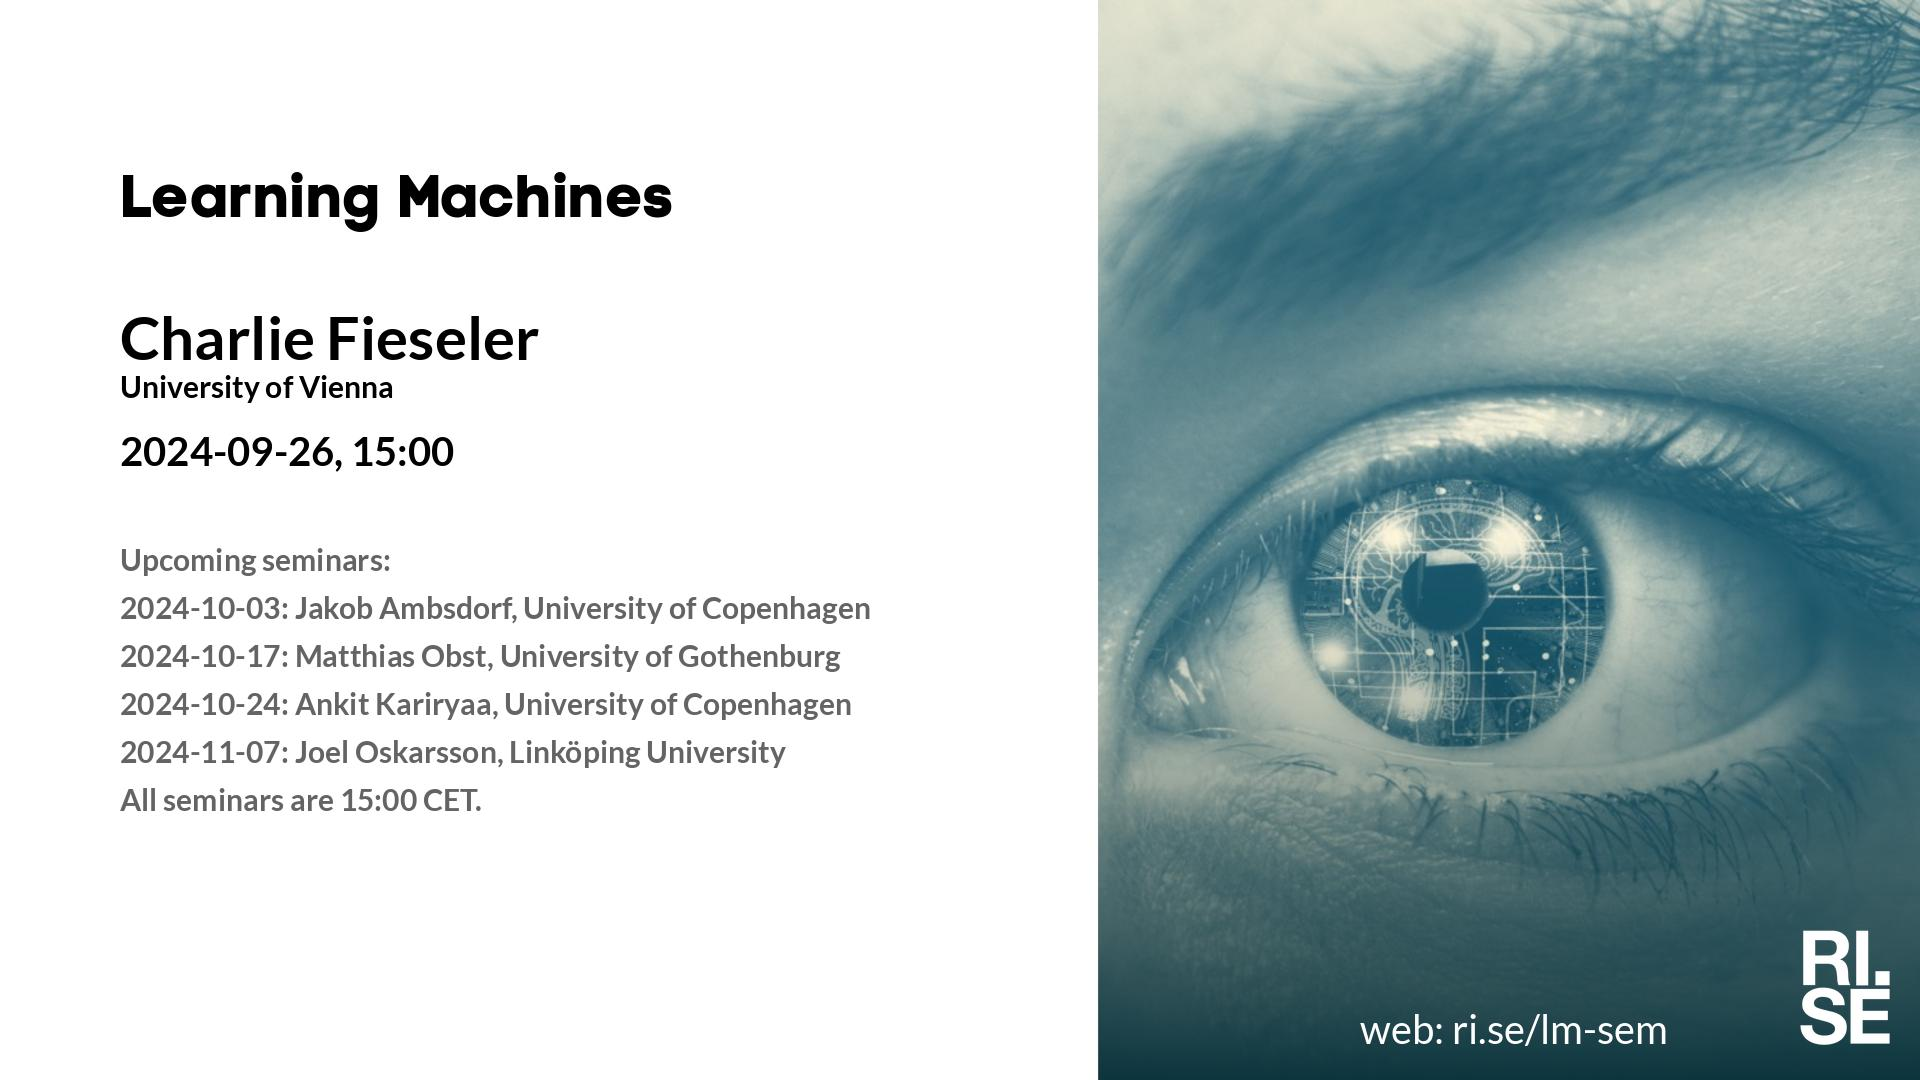
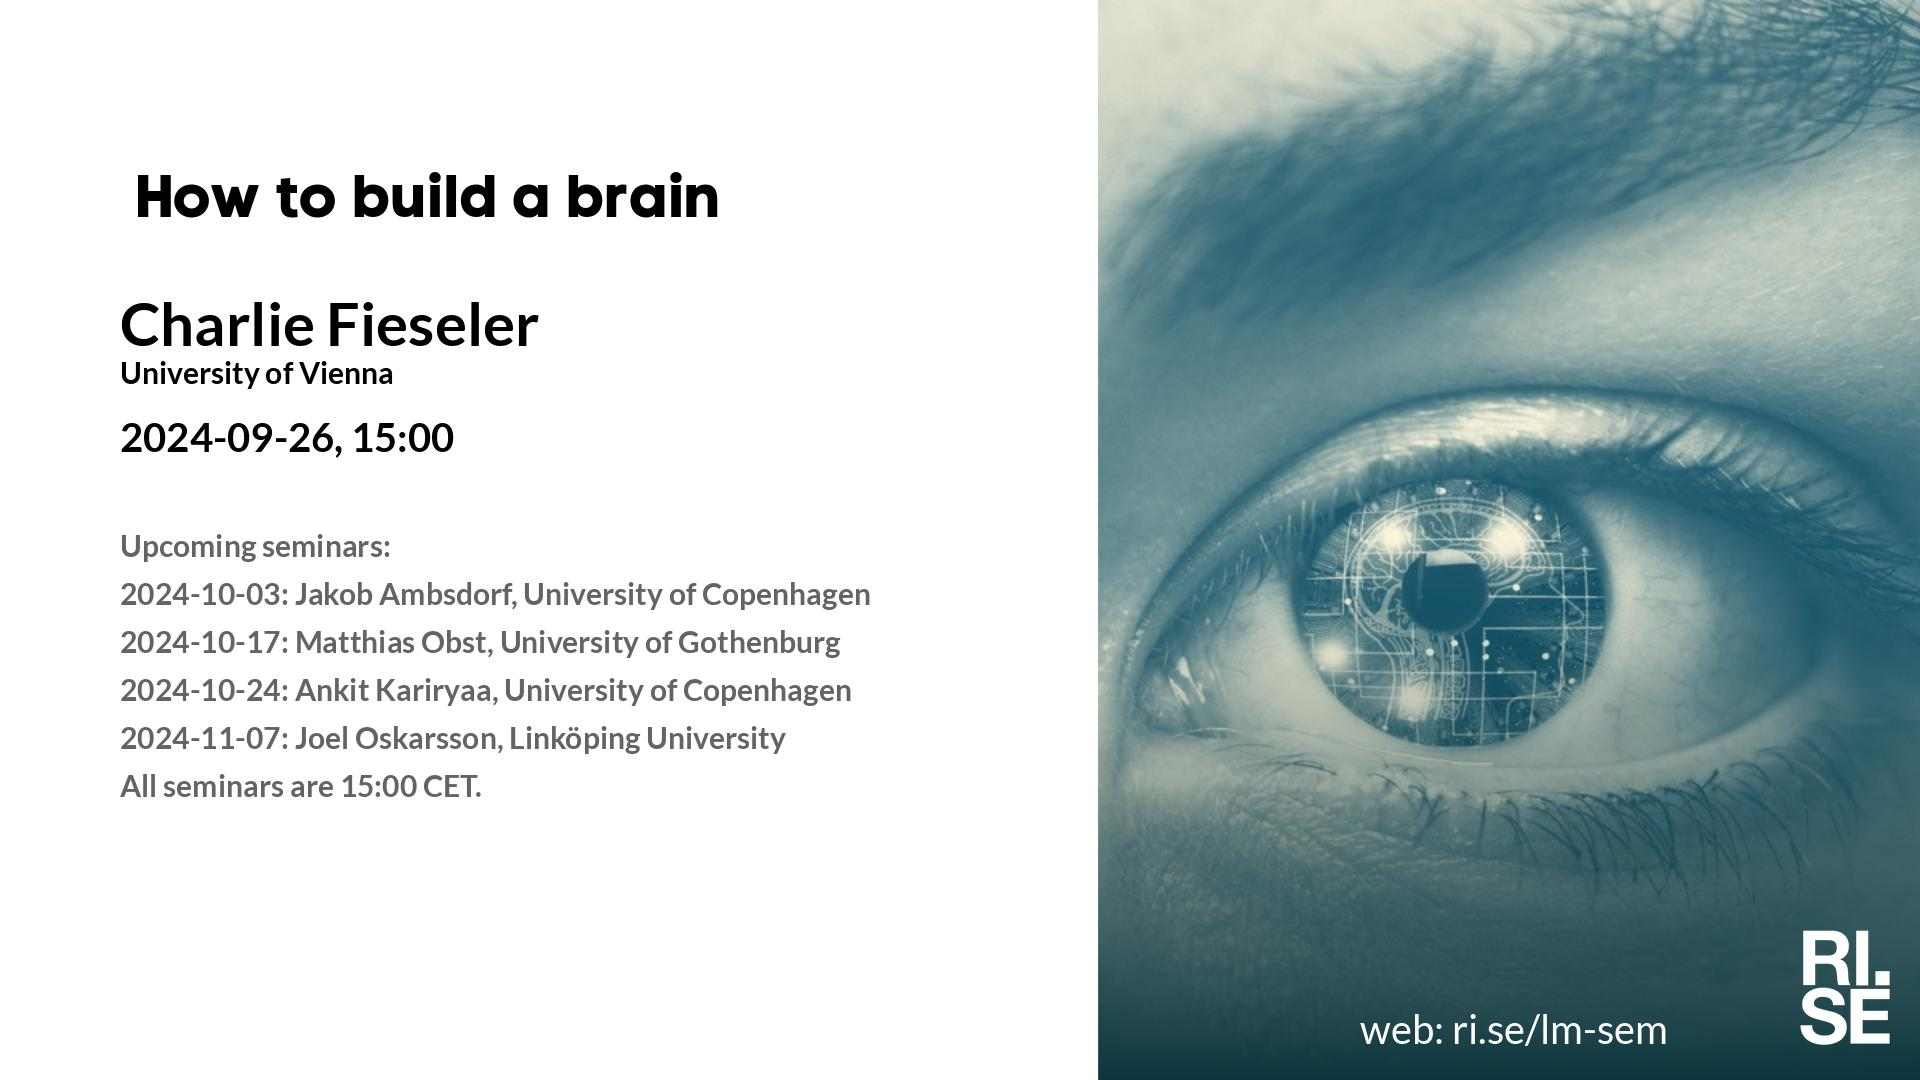
Updated plan on web site.

Changed region(s): [[0.0625, 0.4889, 0.4688, 0.7639], [0.0625, 0.275, 0.2812, 0.4278], [0.0625, 0.1528, 0.375, 0.2139]]

diff --git a/lm/index.md b/lm/index.md
@@ -12,7 +12,7 @@ table {border-collapse: collapse;}
 |  2024-09-05  |  [Smita Chakraborty, RISE](2024-09-05.md)  |  [photo](photo-smita-chakraborty.jpg)  |  [social media ](social-media-smita-chakraborty.jpg)  |  [meeting backdrop ](meeting-backdrop-smita-chakraborty.jpg)  |  [youtube thumbnail ](youtube-thumbnail-smita-chakraborty.jpg)  |  STABP  |
 | <span style="color:red"> 2024-09-12 </span> | <span style="color:red"> CANCELLED </span> | <span style="color:red">  </span> | <span style="color:red">  </span> | <span style="color:red">  </span> | <span style="color:red">  </span> | <span style="color:red"> CANCELLED </span> |
 |  2024-09-19  |  [Mélisande Teng, MILA and Universite de Montreal](2024-09-19.md)  |  [photo](photo-melisande-teng.jpg)  |  [social media ](social-media-melisande-teng.jpg)  |  [meeting backdrop ](meeting-backdrop-melisande-teng.jpg)  |  [youtube thumbnail ](youtube-thumbnail-melisande-teng.jpg)  |  STABP  |
-|  2024-09-26  |  [Charlie Fieseler, University of Vienna](2024-09-26.md)  |    |  [social media ](social-media-charlie-fieseler.jpg)  |  [meeting backdrop ](meeting-backdrop-charlie-fieseler.jpg)  |  [youtube thumbnail ](youtube-thumbnail-charlie-fieseler.jpg)  |  S~~TABP~~  |
+|  2024-09-26  |  [Charlie Fieseler, University of Vienna](2024-09-26.md)  |  [photo](photo-charlie-fieseler.jpg)  |  [social media ](social-media-charlie-fieseler.jpg)  |  [meeting backdrop ](meeting-backdrop-charlie-fieseler.jpg)  |  [youtube thumbnail ](youtube-thumbnail-charlie-fieseler.jpg)  |  STABP  |
 |  2024-10-03  |  [Jakob Ambsdorf, University of Copenhagen](2024-10-03.md)  |    |  [social media ](social-media-jakob-ambsdorf.jpg)  |  [meeting backdrop ](meeting-backdrop-jakob-ambsdorf.jpg)  |  [youtube thumbnail ](youtube-thumbnail-jakob-ambsdorf.jpg)  |  S~~TABP~~  |
 | <span style="color:purple"> 2024-10-10 </span> | <span style="color:purple"> *Up for grabs!!!* </span> | <span style="color:purple">  </span> | <span style="color:purple">  </span> | <span style="color:purple">  </span> | <span style="color:purple">  </span> | <span style="color:purple"> ~~STABP~~ </span> |
 |  2024-10-17  |  [Matthias Obst, University of Gothenburg](2024-10-17.md)  |  [photo](photo-matthias-obst.jpg)  |  [social media ](social-media-matthias-obst.jpg)  |  [meeting backdrop ](meeting-backdrop-matthias-obst.jpg)  |  [youtube thumbnail ](youtube-thumbnail-matthias-obst.jpg)  |  S~~TAB~~P  |

diff --git a/lm/2024-09-26.md b/lm/2024-09-26.md
@@ -4,13 +4,15 @@ metatags: "<meta name=\"robots\" content=\"noindex,nofollow\" />"
 ---
 Welcome to this week's Learning Machines seminar.
 
-**Title:** N/A
+**Title:**  How to build a brain
 
 **Speaker:** Charlie Fieseler, University of Vienna
 
-**Abstract:** N/A
+**Abstract:** A fundamental problem in neuroscience is how to design a brain to quickly achieve robust behavior while processing chaotic sensory input. Fortunately, neuroscience is undergoing a revolution due to large-scale high-resolution recording technologies. Recent research on such datasets suggests a general design principle: a distributed representation of instantaneous behavior across a large population of neurons, producing a low-dimensional manifold. Studying such principles in small C. elegans nematodes has unique benefits, because we can record the neuronal activity of almost every single neuron during natural behaviors.
 
-**About the speaker:** N/A
+I will review recent work on large-scale brain recordings and manifolds, with particular reference to brain-computer interfaces. I will next discuss the historical cross-pollination of the neuroscience and AI fields, and then discuss lessons learned from reading the mind of this animal. We have observed the manifold concept to be extremely important even in this minimal system, and it may have particular relevance for engineers designing embedded systems that act in real time. In addition, I will introduce the neural networks and techniques used to transform our 3d microscopy videos into clean time series. I will end with some directions of future work modeling the dynamics of such neuronal systems, combining a sprinkle of control theory with neural networks.
+
+**About the speaker:** Charles Fieseler is a postdoc in the Zimmer lab at the University of Vienna. He did his Ph.D. in physics at the University of Washington, focusing on modeling neuronal activity using data-driven control theory. He is interested in developing practical pipelines for analyzing terabyte scale microscopy data, and in analyzing minimal brains and understanding their design principles.
 
 **Location:** This is an online seminar. Connect using Zoom.
 
